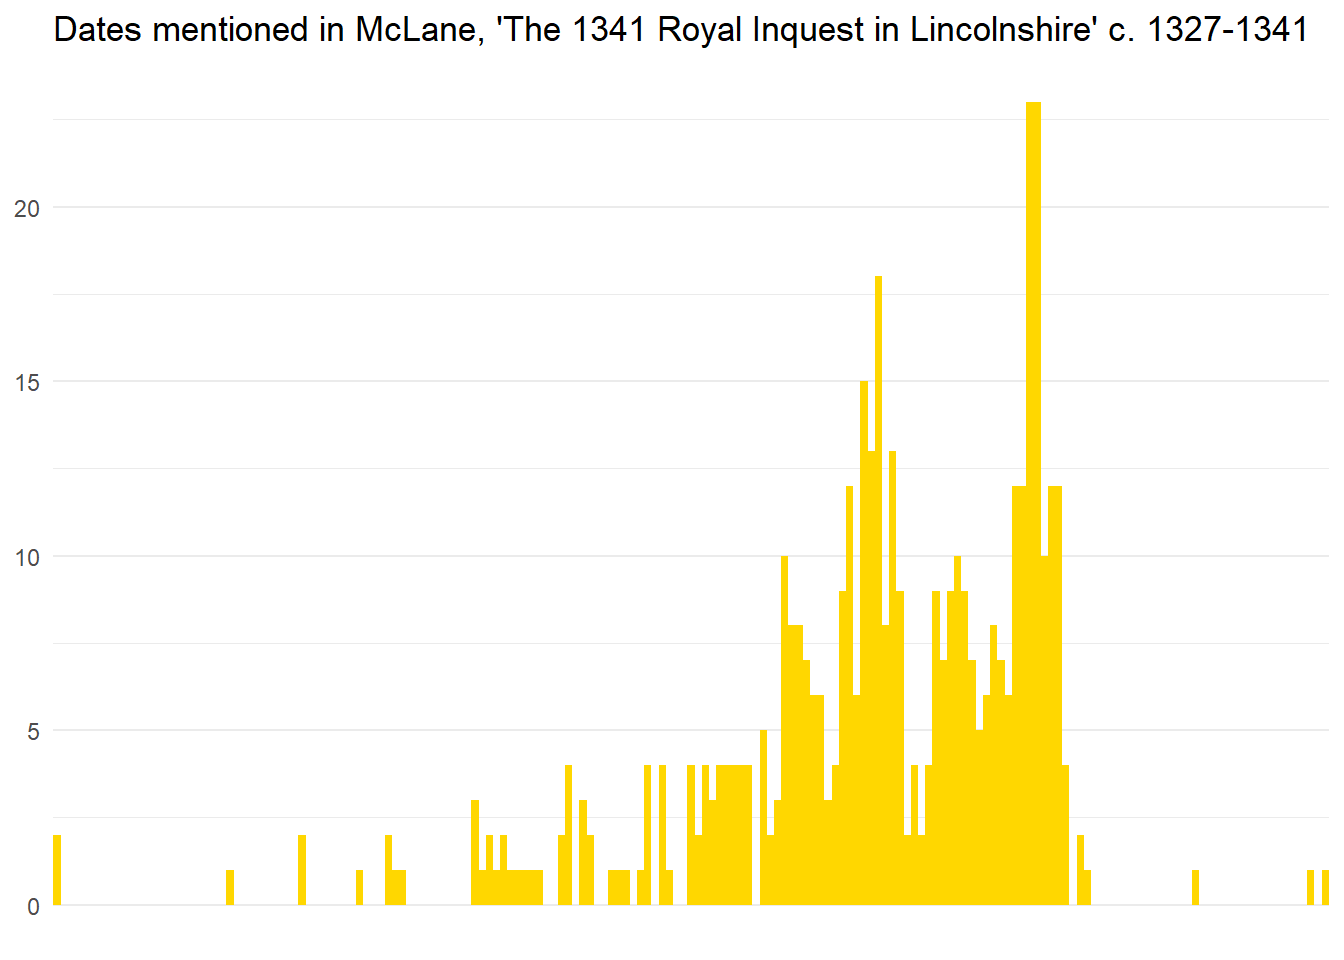
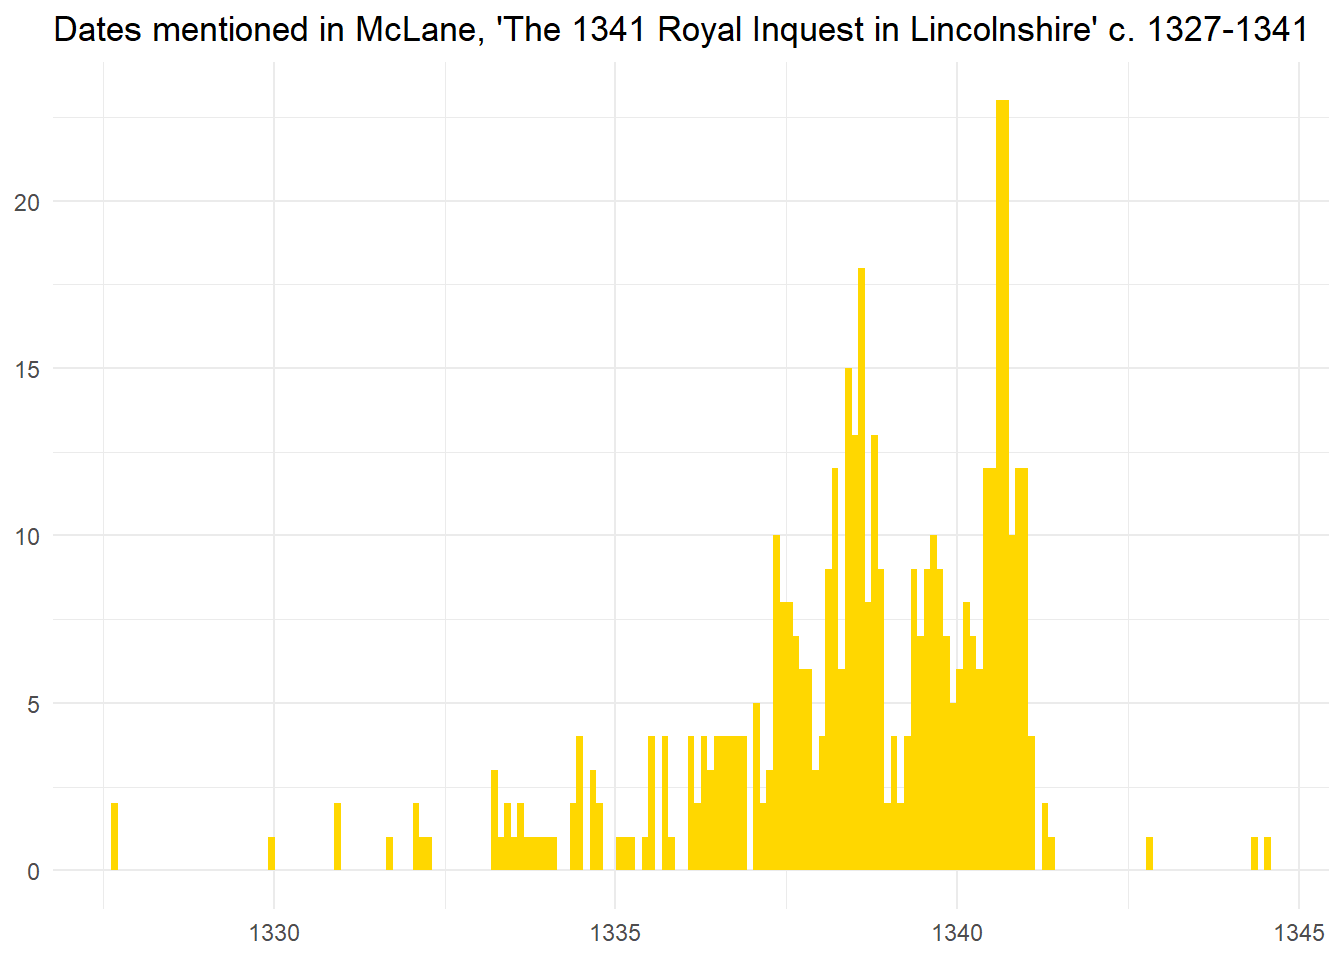
Update of second post

diff --git a/content/portfolio/2020-06-30-dating-a-medieval-court-roll.html b/content/portfolio/2020-06-30-dating-a-medieval-court-roll.html
@@ -11,10 +11,11 @@ showonlyimage: no
 
 
 
-<p>The previous post was spent outlining the basics of text mining and exploring some possible avenues for analysis. I learnt a lot in the process and hopefully was able to convey at least some of the potential for digital exploitation of historic texts. In this post I want to label each offence with as precise a date as possible. I can do this by extracting days, month, or years from the text to new columns and the pairing these with the original text. Essentially the text of the trials is broken into smaller observations and sorted according to particular criteria, in thie case, dates. This list is then appended to the original corpus which will allow the allegations to be sorted according to dates. The second will be achieved by assigning value to particular words which are indicative of particular activities. For example if I decide that the word ‘feloniously’ only ever refers to property or personal violence I can assign it a high value for those categories. This can then be applied to the text to give each offence a particular value. This post will focus on dating the allegations as accurately as possible by converting regnal years to calendar years and assigning precise dates where possible.</p>
+<p>The previous post was spent outlining the basics of text mining and exploring some possible avenues for analysis. I learnt a lot in the process and hopefully was able to convey at least some of the potential for digital exploitation of historic texts. In this post I want to label each offence with as precise a date as possible and also assigning some basic categories to the allegations. I can do the firstby extracting days, month, or years from the text to new columns and the pairing these with the original text. Essentially this approach breaks the text of the trials into smaller observations which are then filtered according to particular criteria, in this case, dates. This list is then appended to the original text which will give each allegation a modern, machine readable date.</p>
+<p>To categorise the offences I take a similar approach. To do this I will use some of the words I extracted in the previous post. For example one of the words that I found was ‘feloniously’. This word only ever refers to property or personal violence. As I am not, at this stage, concerned with differentiating between the two I can assign this word a high value for a ‘violence’ category. This process can be repeated, with some more nuance, to assign more precise categories. These words and their values can be cross checked with the original text to give each allegation a particular value.</p>
 <div id="dating-the-roll" class="section level3">
 <h3>Dating the roll</h3>
-<p>Initially, assigning years to each allegation is a fairly straightforward process. In some instances McLane, the editor of the roll, used calendar years ‘1327’ etc. I quickly realised however that he also occasionally used regnal years which were not updated. Below is the plot of allegations which contain a calendar year. As before if you are new to R or coding please don’t worry about understanding the code. I have supplied it so you can see my workings and in case it is of interest.</p>
+<p>Initially, assigning years to each allegation is a fairly straightforward process. In some instances McLane, the editor of the roll, used calendar years ‘1327’ etc. I quickly realised however that, on occassion, he also used regnal years, for example, ‘Edward 3’ to refer to the third year of the king Edward. This is typically how mdieval documents would date a particular year. Below is the plot of allegations which contain a calendar year. As before if you are new to R or coding please don’t worry about understanding the code. I have supplied it so you can see my workings and in case it is of interest.</p>
 <pre class="r"><code>#In this command I create a filter which extracts allegations with at least a year mentioned. This creates a table of allegations which include a year.
 
 yearsCount &lt;- Lincolnshire_Tokens %&gt;% 
@@ -146,11 +147,12 @@ lincsEventsDated %&gt;% filter(!is.na(regnalYear)) %&gt;% filter(year %in%  c(&q
 <p><img src="/portfolio/2020-06-30-dating-a-medieval-court-roll_files/figure-html/plots%20by%20side-1.png" width="672" />
 We can also plot all allegations which are dated to day, month, and year across the entirety of the court records.</p>
 <pre class="r"><code>#Convert Year into a factor
-lincsEventsDated$year &lt;- factor(lincsEventsDated$year)
+#lincsEventsDated$year &lt;- factor(lincsEventsDated$year)
 #Plot
-lincsEventsDated %&gt;% count(date, year, sort=TRUE) %&gt;% ggplot(aes(date)) + geom_histogram(fill=&quot;#ffd700&quot;, binwidth = 35) + ggtitle(&quot;Dates mentioned in McLane, &#39;The 1341 Royal Inquest in Lincolnshire&#39; c. 1327-1341&quot;)+ ylab(NULL) +xlab(NULL) + scale_x_discrete(labels=c(&quot;1327&quot;, &quot;1328&quot;, &quot;1329&quot;, &quot;1330&quot;, &quot;1331&quot;, &quot;1332&quot;, &quot;1333&quot;, &quot;1334&quot;, &quot;1335&quot;, &quot;1336&quot;, &quot;1337&quot;, &quot;1338&quot;, &quot;1339&quot;, &quot;1340&quot;, &quot;1341&quot;)) + theme_minimal()</code></pre>
-<p><img src="/portfolio/2020-06-30-dating-a-medieval-court-roll_files/figure-html/histogram%20plot-1.png" width="672" />
-In this post I have outlined how to work with dates in several formats and add new columns to the data which can act as a tag and reveal trends. I want to point out a few things about the approach I have taken though. One problem is that each allegation might include multiple dates. In those instances I will have created duplicate entries. This isn’t a huge problem as I am interested in the focus of the court. When editing the volume McLane followed the construction of the records by the court clerks. Some individual allegations in fact contain many offences which may have occured at different times. If I attempted to just assign a single date to each allegation I would have to exclude a lot of information. It does mean however that the data I have shown here only demonstrates the number of times that a particular date is mentioned rather than dating each allegation specifically. I learnt quite a lot and I am sure if I began again I would make some changes to the process I have outlined. I think, at times, I took several steps when only one or two were necessary. The next post will have more analysis of the work carried out here and less coding!</p>
+lincsEventsDated %&gt;% count(date, year, sort=TRUE) %&gt;% ggplot(aes(date)) + geom_histogram(fill=&quot;#ffd700&quot;, binwidth = 35) + ggtitle(&quot;Dates mentioned in McLane, &#39;The 1341 Royal Inquest in Lincolnshire&#39; c. 1327-1341&quot;)+ ylab(NULL) +xlab(NULL) + theme_minimal()</code></pre>
+<p><img src="/portfolio/2020-06-30-dating-a-medieval-court-roll_files/figure-html/histogram%20plot-1.png" width="672" /></p>
+<pre class="r"><code>#I had this working with a properly labeled x axis for each year but I broke it somehow. If you know how to make it work then let me know!</code></pre>
+<p>In this post I have outlined how to work with dates in several formats and add new columns to the data which can act as a tag and reveal trends. I want to point out a few things about the approach I have taken though. One problem is that each allegation might include multiple dates. In those instances I will have created duplicate entries. This isn’t a huge problem as I am interested in the focus of the court. When editing the volume McLane followed the construction of the records by the court clerks. Some individual allegations in fact contain many offences which may have occured at different times. If I attempted to just assign a single date to each allegation I would have to exclude a lot of information. It does mean however that the data I have shown here only demonstrates the number of times that a particular date is mentioned rather than dating each allegation specifically. I learnt quite a lot and I am sure if I began again I would make some changes to the process I have outlined. I think, at times, I took several steps when only one or two were necessary. The next post will have more analysis of the work carried out here and less coding!</p>
 </div>
 <div class="footnotes">
 <hr />

diff --git a/content/portfolio/2020-06-30-mining-a-medieval-court-roll.html b/content/portfolio/2020-06-30-mining-a-medieval-court-roll.html
@@ -1,5 +1,5 @@
 ---
-title: Mining a medieval court roll
+title: Mining a medieval court roll 1
 author: ''
 date: '2020-06-30'
 slug: mining-a-medieval-court-roll

diff --git a/content/about/_index.md b/content/about/_index.md
@@ -10,21 +10,21 @@ I am a CHASE funded doctoral candidate based at the Centre for Medieval and Earl
 
 As part of my CHASE studentship I completed a two-month funded placement at the National Archives using subpoena writs to accurately date over six hundred cases from the Court of Chancery in the late fifteenth century. I also work with ‘Up on the Downs’, a landscape-based Heritage Lottery Funded project based in the Dover District Area which is exploring how to engage the public with medieval heritage in the Dover area. 
 
-![This is me][1]
+![This is me][/img/about.jpg]
 
 My thesis is an investigation of corruption and anti-corruption processes within the development of English government institutions from 1307 to 1348. This work looks at the negotiation of centralised and devolved authority and how this authority, when subverted by corrupt actors, affected the crown and its subjects. The thesis includes a database of over 2000 individual cases of wrongdoing collated from anti-corruption investigations carried out in the first half of the fourteenth century. Jack utilises data science methodologies to collect, analyse, and visualise networks of officials and their patrons. I am interested in corruption, digital approaches to the study of the medieval period, Irish history, North Sea Trade, and cricket. You can find a brief C.V. below.
 
-## This Site
-This site is written in markdown using [RStudio](https://rstudio.com/), the [blogdown package](https://bookdown.org/yihui/blogdown/), and [Hugo](https://gohugo.io/). The content is pushed to [Github](https://github.com/) and hosted by [Netlify](https://www.netlify.com/). If you are interested in using a similar approach I used a combination of various tutorials found with some judicious searches and parts of this [youtubers guides](https://www.youtube.com/playlist?list=PL-Kz5P-mYdMgAJDmRJquyMHfdaIOD-3oj) which waswere really helpful.
+## About this Site
+This site is written in markdown using [RStudio](https://rstudio.com/), the [blogdown package](https://bookdown.org/yihui/blogdown/), and [Hugo](https://gohugo.io/). The content is pushed to [Github](https://github.com/) and hosted by [Netlify](https://www.netlify.com/). If you are interested in using a similar approach I used a combination of various tutorials found with some judicious searches and parts of this [Youtuber's guides](https://www.youtube.com/playlist?list=PL-Kz5P-mYdMgAJDmRJquyMHfdaIOD-3oj) which were very helpful.
 
 ## Academic C.V.
 
 #### University of Kent
-* **CHASE AHRC Funded Ph.D. Medieval and Early Modern Studies (2016-2020).**
+* **CHASE AHRC Funded Ph.D. Medieval and Early Modern Studies (2016-2020)**
       - Provisional Title: Corruption and Conflict: Institutional adaptation in pre-Black         Death England (c.1307-1348). Supervisors: Professor Barbara Bombi and Dr Ryan Perry.
-* **MA Medieval and Early Modern Studies (Distinction - 2015-2016).**
+* **MA Medieval and Early Modern Studies (Distinction - 2015-2016)**
       - Subject of thesis: ‘Corrupt Officials and Deprived Peasants: Governmental                 Malfeasance in Pre-Black Death Lincolnshire Countryside’. Awarded 72 (Distinction).
-* **BA in History (First Class Honours - 2012-2015).**
+* **BA in History (First Class Honours - 2012-2015)**
       - Subject of thesis: ‘‘Evolution not Revolution’: Towards an evolutionary approach to       warfare in the British Isles in the First Scottish War of Independence’. Awarded 68         (2:1). Nominated for Royal Historical Society *History Scotland Award*.
       
 #### The Open University
@@ -34,20 +34,20 @@ This site is written in markdown using [RStudio](https://rstudio.com/), the [blo
 
 ## Grants and Awards
 
-* Awarded £1000 Sebastian Rahtz ‘SPQR’ Digital Humanities bursary to attend the Digital Humanities at Oxford Summer School (delayed to 2021). July 2020.
+*Awarded £1000 Sebastian Rahtz ‘SPQR’ Digital Humanities bursary to attend the Digital Humanities at Oxford Summer School (delayed to 2021). July 2020.
 
-* Royal Historical Society Centenary Fellow based at The Institute for Historical Research. Sept. 2019–Sept. 2020
+*Royal Historical Society Centenary Fellow based at The Institute for Historical Research. Sept. 2019–Sept. 2020
 
-* Jointly bid for £2,000 toward the organising of Medieval and Early Modern
+*Jointly bid for £2,000 toward the organising of Medieval and Early Modern
 Studies Festival (June 2019).
 
-* Jointly bid for £2,000 toward the organising of Medieval and Early Modern
+*Jointly bid for £2,000 toward the organising of Medieval and Early Modern
 Studies Festival (June 2018).
 
-* Jointly bid for	£1,500 toward the organising of Medieval and Early Modern
+*Jointly bid for	£1,500 toward the organising of Medieval and Early Modern
 Studies Festival 2017 (June 2017).
 
-* AHRC CHASE DTP Ph.D. Studentship (2016-2019).
+*AHRC CHASE DTP Ph.D. Studentship (2016-2019).
 
 ## Conference Papers
 * July 2020	‘Mining the Medieval: Digitising a 14th-Century Anti-Corruption Lincolnshire Court Roll’ on panel ‘Borderlines: Navigating the Medieval through History’ International Medieval Congress, Leeds, UK (delayed to 2021).
@@ -100,5 +100,3 @@ Studies Festival 2017 (June 2017).
 * Sept. 2017-Dec. 2018	Seminar leader for HI410 ‘Early Medieval Europe’ in the School of History at the University of Kent.
 
 * 2017-2019	Co-organiser for Medieval and Early Modern Studies Summer Festival 2017, 2018, 2019 (100+ participants per year).
-
-[1]:/about.jpg

diff --git a/content/contact/_index.md b/content/contact/_index.md
@@ -3,8 +3,4 @@ date: "2016-11-06T13:00:25+05:30"
 title: Get in touch
 ---
 
-When she reached the first hills of the Italic Mountains, she had a last view back on the skyline of her hometown Bookmarksgrove, the headline of Alphabet Village and the subline of her own road, the Line Lane. Pityful a rethoric question ran over her cheek, then
 
-Effects present letters inquiry no an removed or friends. Desire behind latter me though in. Supposing shameless am he engrossed up additions. My possible peculiar together to. Desire so better am cannot he up before points. Remember mistaken opinions it pleasure of debating. Court front maids forty if aware their at. Chicken use are pressed removed.
-
-Able an hope of body. Any nay shyness article matters own removal nothing his forming. Gay own additions education satisfied the perpetual. If he cause manor happy. Without farther she exposed saw man led. Along on happy could cease green oh. 
